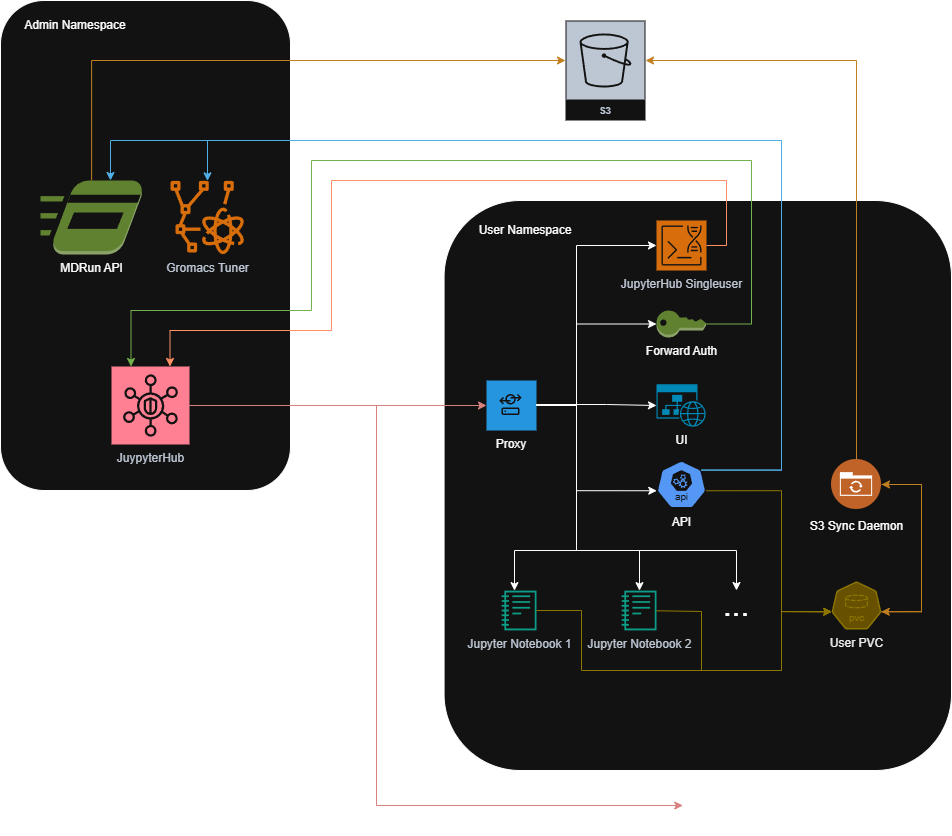
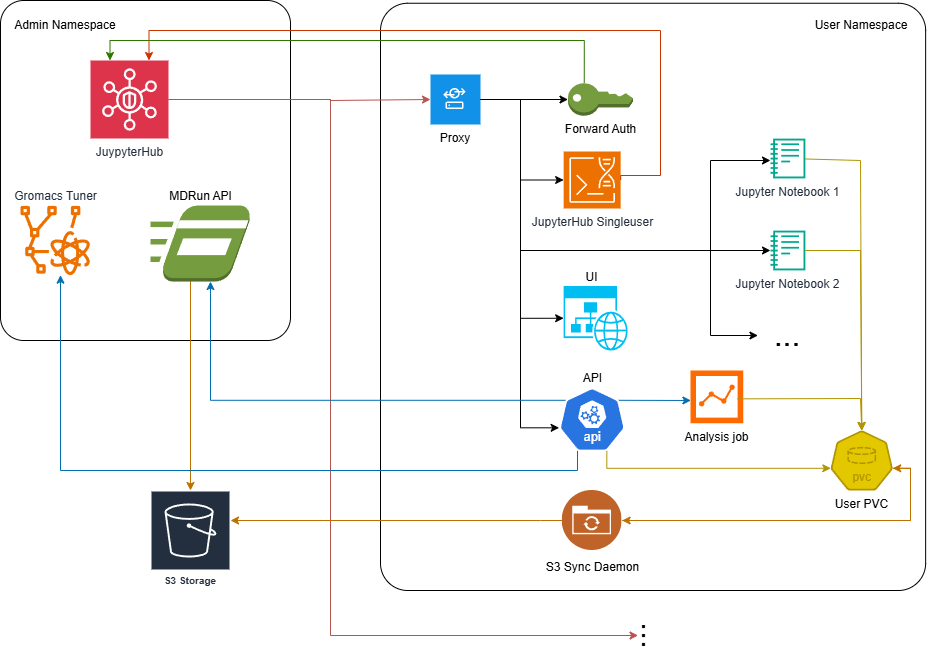
Aleš and Adrian reviews + text wrapping fixes

diff --git a/fi-pdflatex.tex b/fi-pdflatex.tex
@@ -30,14 +30,14 @@
     gender      = m,
     advisor     = {Mgr. Adrián Rošinec},
     title       = {Virtual Research Environment for Molecular Dynamics Simulation Experiments},
-    keywords    = {Molecular Dynamics, MDDash, GROMACS, AMBER, GROMACS Tuner, BioBB, Mol*, JupyterHub, Kubernetes, MDRepo, InvenioRDM, e-INFRA CZ},
+    keywords    = {Molecular Dynamics, MDDash, GROMACS, AMBER, GROMACS Tuner, BioBB, Mol*, JupyterHub, Kubernetes, MDRepo, InvenioRDM, e-INFRA~CZ},
     declaration = {%
         Hereby I declare that this thesis is my original authorial work, which I have worked out on my own. All sources, references, and literature used or excerpted during elaboration of this work are properly cited and listed in complete reference to the due source. \\
         \\
         During the preparation of this thesis, I used the following AI tools:
         \begin{itemize}
             \item \textbf{Claude Code} for agentic development and thesis structuring
-            \item \textbf{Kilo Code} for agentic development using models hosted on e-INFRA
+            \item \textbf{Kilo Code} for agentic development using models hosted on e-INFRA~CZ
             \item \textbf{GitHub Copilot} for agentic development and PR reviews
             \item \textbf{Consensus.app} for finding related work and scientific articles
             \item \textbf{Visily} for drafting UI/UX design
@@ -54,9 +54,11 @@
     thanks      = {%
       I would like to thank Adrián Rošinec for accepting me into his research team and entrusting me with the MDDash project. I value the development freedom given to me and the opportunity to gain experience across all parts of project development.
 
-      I would also like to thank Aleš Křenek for providing valuable feedback on MDDash and for putting me in contact with the domain researchers mentioned in the thesis. He also supported the project by using the application regularly and by preparing a poster that promoted MDDash in the scientific community.
+      I would also like to thank Aleš Křenek for providing valuable feedback on MDDash and for putting me in contact with the domain researchers mentioned in the thesis. He also supported the project by using the application regularly and by promoting MDDash in the scientific community.
 
       Finally, I would like to thank e-INFRA~CZ for providing the infrastructure for deploying and testing MDDash at a scale not feasible on a personal workstation. Their self-hosted LLMs supported the integration of agent-assisted development into my workflow.
+
+      This work was supported by the Ministry of Education, Youth and Sports of the Czech Republic through the e-INFRA~CZ (ID:90254).
     },
     bib         = mddash.bib,
     %% Remove the following line to use the JVS 2018 faculty logo.
@@ -102,7 +104,7 @@ The goal of this thesis is to design and implement an integrated virtual researc
 
 MDDash is implemented as a multi-user web platform that combines a guided wizard with an integrated notebook environment. The wizard supports routine production work and covers the setup, execution, analysis, and publication stages of an MD experiment. The notebook environment accommodates advanced users with non-standard simulation setups. Research groups can also plug in their own curated Jupyter notebook collections, building on the default set distributed with the platform.
 
-The platform was evaluated through two methods. The first was qualitative feedback sessions with domain researchers from the Central European Institute of Technology (CEITEC) and the Center for Magnetic Resonance (CERM). The second was a quantitative comparative experiment against the traditional command-line workflow and the BioExcel Building Blocks (BioBB) library~\cite{BioBB} on a reference lysozyme system. Both researchers reported that the platform addresses the workflow needs of their groups. The comparative experiment measured a reduction in active wall-clock time relative to both baselines, with timings detailed in Section~\ref{sec:comparative_experiment}. MDDash is deployed on a Kubernetes cluster and released as an open-source project. End-to-end validation of the publication step remains contingent on the ongoing production rollout of MDRepo.
+The platform was evaluated through two methods. The first was qualitative feedback sessions with domain researchers from the Central European Institute of Technology (CEITEC) and the Center for Magnetic Resonance (CERM). The second was a quantitative comparative experiment against the traditional command-line workflow and the BioExcel Building Blocks (BioBB) library~\cite{BioBB} on a reference lysozyme system. Both researchers reported that the platform addresses the workflow needs of their groups. The comparative experiment measured a reduction in active wall-clock time relative to both baselines, with timings detailed in Section~\ref{sec:comparative_experiment}. MDDash is deployed on Masaryk University Kubernetes infrastructure. It is released as an open-source project, allowing the community to deploy and extend it.
 
 
 \chapter{Molecular Dynamics Landscape}
@@ -125,9 +127,12 @@ When conducting MD research, scientists typically follow this workflow~\cite{gmx
     \item \textbf{Analysis}: post-processing trajectories to extract properties of interest, such as structural stability, energetics, and dynamic behavior.
 \end{enumerate}
 
-In modern scientific practice, the workflow does not end at analysis: the simulation outputs and the derived results are typically expected to be shared, both as figures and discussion within a publication and as the underlying data deposited in a research data repository. The data-sharing dimension of this final stage, including its associated infrastructural challenges, is examined separately in Section~\ref{sec:reproducibility}.
+Two aspects are notably absent from this standard workflow but central to the contribution of this thesis:
 
-Notably absent from this standard workflow is any systematic step for selecting computational performance parameters, such as the balance between MPI ranks and OpenMP threads or GPU assignment. In practice, researchers typically rely on prior experience or institutional documentation to configure these settings. No general-purpose automated benchmarking tool for this purpose is in widespread use, so suboptimal configurations often go undetected and translate into unnecessary waste of computational resources. The GROMACS Tuner~\cite{gromacs_tuner}, developed by Adam Ondrejka, addresses this gap.
+\begin{itemize}
+    \item \textbf{Performance-parameter selection}: no systematic step exists for choosing computational parameters such as the balance between MPI ranks and OpenMP threads or GPU assignment. Researchers typically rely on prior experience or institutional documentation to configure these settings. No general-purpose automated benchmarking tool for this purpose is in widespread use. Suboptimal configurations therefore go undetected and translate into wasted computational resources. The GROMACS Tuner~\cite{gromacs_tuner}, developed by Adam Ondrejka, addresses this gap.
+    \item \textbf{Data sharing and reproducibility}: in modern scientific practice, simulation outputs and derived results are expected to be shared, both as figures and discussion within a publication and as underlying data deposited in a research data repository. The data-sharing dimension of this final stage, including its associated infrastructural challenges, is examined separately in Section~\ref{sec:reproducibility}.
+\end{itemize}
 
 \section{Molecular Dynamics Simulation Software}
 \label{sec:md_software}
@@ -151,7 +156,7 @@ While generalist repositories provide essential infrastructure, their agnostic n
 
 To overcome the limitations of generalist platforms, the biomolecular community has developed domain-specific repositories, such as GPCRmd~\cite{GPCRmd} or MoDEL~\cite{MoDEL}. These specialized platforms enforce strict metadata schemas and integrate web-based visualization tools. However, this specialization introduces architectural fragmentation, as independent databases often utilize disparate ontologies and APIs, hindering cross-domain interoperability.
 
-Bridging the gap between generalist infrastructure and domain-specific requirements is an open problem in MD data sharing. Platforms such as MDRepo~\cite{mdrepo_ui} address this architectural challenge. MDRepo is built on top of the same InvenioRDM framework that powers Zenodo, inheriting its scalable architecture and persistent identifier management. Unlike Zenodo, MDRepo is explicitly tailored for molecular dynamics. It enforces domain-specific metadata schemas and standardizes trajectory formats. Direct integration of such a repository into the simulation workflow keeps simulation data interpretable and reusable beyond the scope of the original publication.
+Bridging the gap between generalist infrastructure and domain-specific requirements is an open problem in MD data sharing. Platforms such as MDRepo~\cite{mdrepo_ui} address this architectural challenge. It is built on top of the same InvenioRDM framework that powers Zenodo, inheriting its scalable architecture and persistent identifier management. Unlike Zenodo, MDRepo is explicitly tailored for molecular dynamics. It enforces domain-specific metadata schemas and standardizes trajectory formats. Direct integration of such a repository into the simulation workflow keeps simulation data interpretable and reusable beyond the scope of the original publication.
 
 \section{Analysis Tools for Molecular Dynamics Simulations}
 \label{sec:md_analysis_tools}
@@ -165,7 +170,9 @@ For interactive analysis and communication of results, Mol*~\cite{molstar_viewer
 \section{Virtual Research Environments}
 \label{sec:VREs}
 
-To address the complexities of MD orchestration and data management, the scientific community has developed Virtual Research Environments (VREs). These web-based platforms provide researchers with access to distributed HPC tools, federated data repositories, and collaborative services. A prominent example is the BioExcel Center of Excellence and its BioExcel Building Blocks (BioBB) library~\cite{BioBB}. BioBB encapsulates biomolecular simulation tools as Python wrappers distributed as Jupyter Notebooks~\cite{jupyter}, allowing entire simulation pipelines to be executed, documented, and shared within a single document.
+Virtual Research Environments (VREs) are web-based platforms that integrate computational tools, data repositories, and collaborative services into a single interface for a given research domain. They are deployed across disciplines ranging from earth sciences to digital humanities and life sciences, providing researchers with unified access to distributed HPC resources, federated data repositories, and shared workflows.
+
+In molecular dynamics, a prominent example is the BioExcel Center of Excellence and its BioExcel Building Blocks (BioBB) library~\cite{BioBB}. BioBB encapsulates biomolecular simulation tools as Python wrappers distributed as Jupyter Notebooks~\cite{jupyter}, allowing entire simulation pipelines to be executed, documented, and shared within a single document.
 
 Several challenges remain. Modern MD simulations routinely produce trajectories that exceed the storage and transfer capacities of individual workstations~\cite{hpc_approaches_for_md}. This requires centralized infrastructure where analytical tools operate directly alongside the data. Tools such as BioBB reduce the entry barrier through Jupyter Notebooks. Many existing VREs still require expertise in command-line interfaces, scripting, and manual infrastructure management, which keeps the entry barrier high for experimental researchers.
 
@@ -246,7 +253,7 @@ Traditionally, setting up MD simulations involves a series of manual commands ex
 \subsection{Tune}
 \label{sec:step_tune}
 
-Correct parameter selection for the simulation is often omitted from the traditional MD workflow~(Section~\ref{sec:md_workflow}). Incorrect settings can, however, cause the simulation to run significantly slower than necessary, which increases costs and extends the time to results. The tune step in MDDash closes this gap through integration with the GROMACS Tuner~\cite{gromacs_tuner} service, which performs short benchmark runs across different configurations and reports the resulting throughput in the standard MD performance unit of nanoseconds of simulated time per day of wall-clock time (ns/day). The configuration with the highest measured ns/day is then offered to the user as the recommended starting point for the production run. Before the run is launched, the user may append additional \texttt{mdrun} arguments to this configuration, allowing manual fine-tuning beyond the parameters covered by the automated sweep.
+Selection of computational performance parameters, such as MPI ranks, OpenMP threads, GPU offload of force computations, and engine-specific tuning flags, is often omitted from the traditional MD workflow~(Section~\ref{sec:md_workflow}). Incorrect settings can cause the simulation to run significantly slower than necessary, which increases costs and extends time to results. The tune step in MDDash closes this gap through integration with the GROMACS Tuner~\cite{gromacs_tuner} service, which performs short benchmark runs across different configurations and reports the resulting throughput in the standard MD performance unit of nanoseconds of simulated time per day of wall-clock time (ns/day). The configuration with the highest measured ns/day is then offered to the user as the recommended starting point for the production run. Before the run is launched, the user may append additional \texttt{mdrun} arguments to this configuration, allowing manual fine-tuning beyond the parameters covered by the automated sweep.
 
 \subsection{Run}
 \label{sec:step_run}
@@ -271,7 +278,7 @@ As discussed in Sections~\ref{sec:reproducibility} and~\ref{sec:md_analysis_tool
 
 The final step allows researchers to publish their completed experiment directly to MDRepo. As discussed in Section~\ref{sec:reproducibility}, MDRepo combines the scalable InvenioRDM infrastructure of generalist repositories with domain-specific metadata schemas required for MD data, making it a natural integration target for MDDash.
 
-The publish action is designed to require minimal user effort. MDDash automatically extracts simulation metadata using GROMACS MetaDump~\cite{gromacs_metadump} and creates a pre-populated draft record on MDRepo, where the user can review it before finalizing. All experiment files, excluding temporary and cache artifacts, are uploaded alongside the metadata. A one-time OAuth authorization is required before the first publication.
+The publish action is designed to require minimal user effort. MDDash automatically extracts simulation metadata using GROMACS MetaDump~\cite{gromacs_metadump} and creates a pre-populated draft record on MDRepo, where the user can review it before finalizing. All experiment files, excluding temporary and cache artifacts, are uploaded alongside the metadata.
 
 This step also closes the reusability loop introduced in the new experiment step. Because MDRepo preserves both the simulation data and the associated Jupyter notebooks, any researcher can create a new MDDash experiment from a published record, retrieving input files and notebook workflows to reproduce or adapt the original experiment.
 
@@ -371,7 +378,7 @@ All routes are protected using Caddy's \texttt{forward\_auth} directive, which d
 \section{Security Architecture}
 \label{sec:security_architecture}
 
-MDDash delegates the primary responsibility for user authentication to JupyterHub, which handles the full OpenID Connect (OIDC)~\cite{oidc} identity provider. The MDDash security model builds on top of this by enforcing authentication at the proxy layer through a lightweight Flask-based authentication container running as a sidecar in every user pod.
+MDDash delegates the primary responsibility for user authentication to JupyterHub, which handles the full OpenID Connect (OIDC)~\cite{oidc} authentication handshake. The MDDash security model builds on top of this by enforcing authentication at the proxy layer through a lightweight Flask-based authentication container running as a sidecar in every user pod.
 
 When an incoming request arrives at Caddy, the \texttt{forward\_auth} directive forwards it to the authentication container before routing it to the target service. The auth container inspects the request's session cookie and validates it against JupyterHub. A valid session lets the request proceed normally. An invalid session triggers a redirect to the JupyterHub login page. To avoid making a request to JupyterHub on every incoming request, a successful validation result is cached in an in-process session store. The stored session state is authenticated with a Hash-based Message Authentication Code (HMAC), which allows the auth container to verify the integrity of the state on subsequent requests without contacting JupyterHub again.
 
@@ -382,9 +389,9 @@ The platform is intended for deployment by research teams on their own infrastru
 \section{S3 Synchronization}
 \label{sec:s3_sync}
 
-Because the MDRun API (Section~\ref{sec:mdrun_api}) executes simulation jobs in a dedicated Kubernetes namespace that does not share a persistent volume with the MDDash API pod, a common shared filesystem cannot be used for data exchange between the two components. S3-compatible object storage serves as the integration point: any service that can reach the S3 endpoint can read or write simulation data regardless of which namespace it runs in. The S3 endpoint is configurable at deployment time, making the solution independent of any particular cloud provider or institution.
+Experiment data is offloaded to S3-compatible object storage external to the Kubernetes cluster. This decouples data durability from pod and cluster lifecycle, so experiments survive pod restarts and namespace recreation. As a side benefit, the MDDash API and the MDRun API~(Section~\ref{sec:mdrun_api}), which run in separate namespaces without a shared persistent volume, can exchange simulation data through the same S3 endpoint. The endpoint is configurable at deployment time, making the platform independent of any particular cloud provider or institution.
 
-Synchronization is implemented with \texttt{rclone}, which runs as a sidecar container alongside the relevant API container. On the MDDash API side, the daemon operates bidirectionally: it monitors the local working directory for changes using a continuous watch loop and propagates them to S3, while simultaneously reflecting any remote changes back to the local filesystem. This ensures that experiment files are durable and accessible even if the pod is restarted. On the MDRun API side, only a one-directional upload is required: the simulation job writes output files to local storage, and the sidecar continuously uploads them to S3 as they are produced. This allows MDDash to stream live simulation output to the user via the S3 bucket without requiring a direct connection between the two namespaces.
+Synchronization is implemented with \texttt{rclone}, which runs as a sidecar container alongside the relevant API container. On the MDDash API side, the daemon operates bidirectionally. It monitors the local working directory for changes and propagates them to S3, while reflecting any remote changes back to the local filesystem. On the MDRun API side, only one-directional upload is required. The simulation job writes output files to local storage, and the sidecar continuously uploads them to S3 as they are produced.
 
 \section{DevOps and Configuration Management}
 \label{sec:devops_configuration}
@@ -395,7 +402,7 @@ MDDash adopts a unified approach to build automation, configuration management, 
 
 The build process is orchestrated through a hierarchy of Makefiles. The root Makefile reads the current Git branch to determine the target environment: \texttt{master} maps to production, all other branches to development. Container image builds are delegated to component-specific Makefiles, while chart deployment is handled by the Helm Makefile.
 
-Each environment has a dedicated YAML configuration file (\texttt{config.yaml} for production, \texttt{config.dev.yaml} for development) that serves as the single source of truth for all deployment parameters, including resource limits, storage class, OIDC endpoints, and image references. Both the Gomplate template (Section~\ref{sec:jupyterhub_orchestration}) and the Makefiles consume this file, so a parameter change propagates to the entire deployment.
+A single YAML file per environment defines all deployment parameters, including resource limits, storage class, OIDC endpoints, and image references. The production deployment reads \texttt{config.yaml}, while the development deployment reads \texttt{config.dev.yaml}. This file serves as the single source of truth for the entire deployment. Both the Gomplate template (Section~\ref{sec:jupyterhub_orchestration}) and the Makefiles consume this file, so a parameter change propagates to the entire deployment.
 
 Container images are tagged differently per environment. Development images share a static \texttt{dev} tag overwritten on every build. Production images receive an immutable tag equal to the Git commit SHA, which identifies the exact build running on the cluster and supports rollback to any prior version.
 
@@ -455,7 +462,7 @@ Starting the notebook opens JupyterLab with the setup notebook pre-loaded (Figur
 
 \section{Tune}
 
-The tune step (Figure~\ref{fig:tune}) addresses the performance-parameter gap identified in Section~\ref{sec:identified_gaps}. The left panel lists the portable binary run input (TPR) files produced during setup. The user selects one and submits benchmark jobs via the \textit{Add Tuner Job} button. The GROMACS Tuner service~\cite{gromacs_tuner} then executes short runs across different MPI, OpenMP, and GPU configurations in parallel.
+The tune step (Figure~\ref{fig:tune}) addresses the performance-parameter gap identified in Section~\ref{sec:identified_gaps}. The left panel lists the portable binary run input (TPR) files produced during setup. The user selects one and submits benchmark jobs via the \textit{Add Tuner Job} button. The GROMACS Tuner service~\cite{gromacs_tuner} then executes short runs across MPI, OpenMP, and GPU configurations in parallel.
 
 Results appear in the table on the right. Each row reports the measured performance in ns/day alongside the tested values of \texttt{-nb}, \texttt{-pme}, \texttt{-np}, and \texttt{-ntomp}. The best-performing completed run is marked with a star. The \textit{Start simulation} panel below the table is populated automatically from the selected row. Additional \texttt{mdrun} arguments can be appended before proceeding. Clicking \textit{Run} advances the experiment to the next step with the chosen configuration.
 
@@ -505,7 +512,7 @@ The \textit{Analysis} tab (Figure~\ref{fig:analysis-mwf}) runs MDDB Workflow ana
 
 The publish step (Figure~\ref{fig:publish}) is intentionally minimal. The interface displays the number of files and their aggregate size, then presents a single \textit{Publish to MDRepo} button. This low-friction design reflects the goal stated in Section~\ref{sec:step_publish}: the action should require minimal user effort.
 
-Clicking the button redirects the user to MDRepo to review and finalize the pre-populated metadata draft. File upload proceeds in the background during this review. Before the first publication, a one-time OAuth authorization with MDRepo is required. Subsequent publications reuse the stored token without interruption.
+Clicking the button redirects the user to MDRepo to review and finalize the pre-populated metadata draft. File upload proceeds in the background during this review. Before the first publication, the user must sign in to MDRepo and grant MDDash permission to create and modify records on their behalf through an OAuth authorization flow. The issued access token is stored and reused for subsequent publications until it expires or is revoked by the user.
 
 Upon successful publication, the experiment receives a persistent DOI, closing the reusability loop introduced in Section~\ref{sec:step_new_experiment}: any researcher can create a new MDDash experiment directly from the published record.
 
@@ -654,15 +661,15 @@ This thesis presented MDDash, a virtual research environment that unifies the mo
 \begin{itemize}
     \item Integration with the GROMACS Tuner service provides the systematic performance-tuning step absent from the standard workflow.
     \item A structured wizard interface built on top of JupyterHub and JupyterLab lowers the command-line entry barrier imposed by existing simulation engines.
-    \item Direct integration with MDRepo and its domain-specific metadata schema replaces the fragmented data stewardship typical of generalist repositories.
-    \item Embedding Mol*, the MDDB workflow analyses, and interactive notebook sessions into the dashboard unifies analysis with the surrounding simulation lifecycle.
+    \item Direct integration with MDRepo and its domain-specific metadata schema replaces fragmented data stewardship typical of generalist repositories.
+    \item Embedding Mol*, the MDDB workflow analyses and interactive notebook sessions into the dashboard unifies analysis with the surrounding simulation lifecycle.
 \end{itemize}
 
 MDDash is fully operational and is deployed on the e-INFRA~CZ Kubernetes infrastructure across separate production and development environments. Its production instance is publicly accessible at \url{https://mddash.dyn.cloud.e-infra.cz}, and its complete source code is maintained as an open-source project at \url{https://github.com/CERIT-SC/mddash}.
 
-At present, the platform has no active end users. Its publication workflow depends on MDRepo reaching production readiness, which had not occurred at the time of writing. The final step of the workflow therefore cannot yet be exercised end-to-end against a live target.
+The publication workflow depends on MDRepo reaching production readiness, which had not occurred at the time of writing. The final step of the workflow therefore cannot yet be exercised end-to-end against a live target.
 
-Several directions are identified for future work. Completing the MDRepo integration once it reaches production will close the reusability loop described in Section~\ref{sec:step_new_experiment}. A UI/UX rework, already underway, aims to make the wizard more descriptive and easier to navigate for researchers without prior exposure to the platform. Recruiting external users will be essential for validating the design choices in practice and for directing subsequent refinements. Finally, the modular engine architecture described in Section~\ref{sec:md_software} is intended to support additional simulation engines beyond the currently supported GROMACS and AMBER.
+Several directions are identified for future work. Completing the MDRepo integration once it reaches production will close the reusability loop described in Section~\ref{sec:step_new_experiment}. A planned UI/UX rework will make the wizard more descriptive and easier to navigate for researchers without prior exposure to the platform, preparing it for broader user adoption. Recruiting external users will then be essential for validating the design choices in practice and for directing subsequent refinements. Finally, the modular engine architecture described in Section~\ref{sec:md_software} is intended to support additional simulation engines beyond the currently supported GROMACS and AMBER.
 
 \chapter*{Bibliography}
 